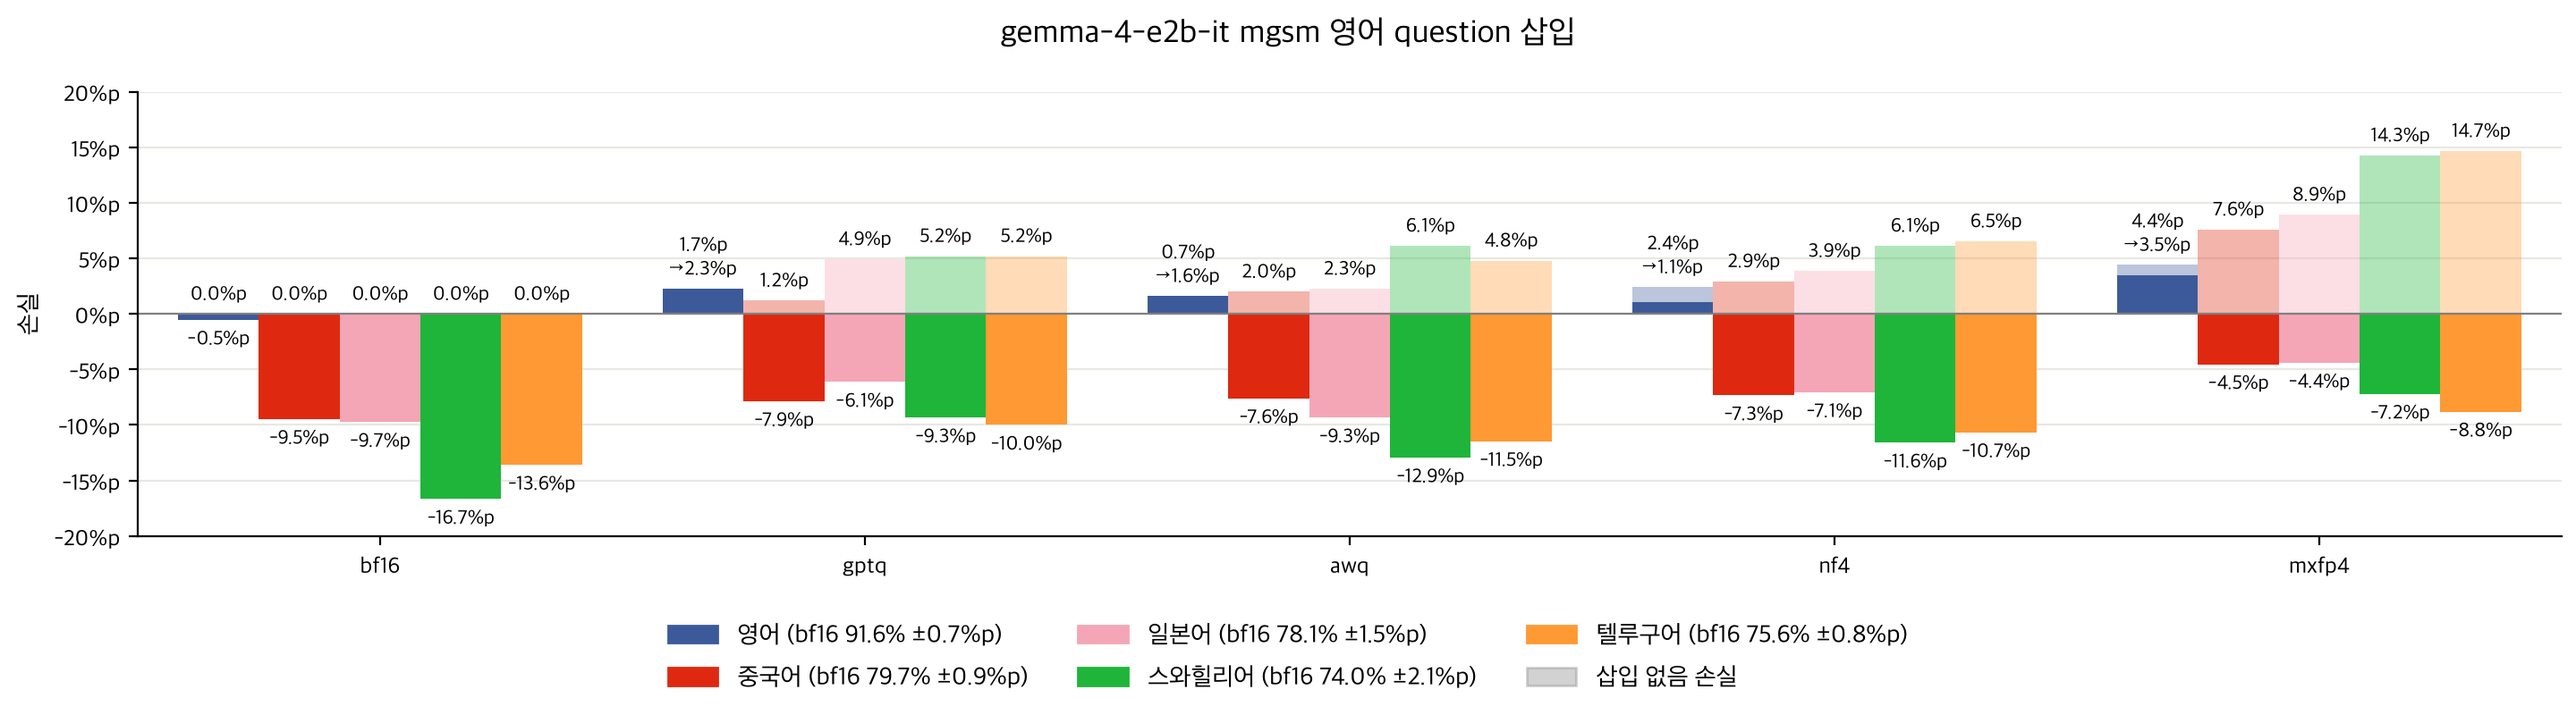
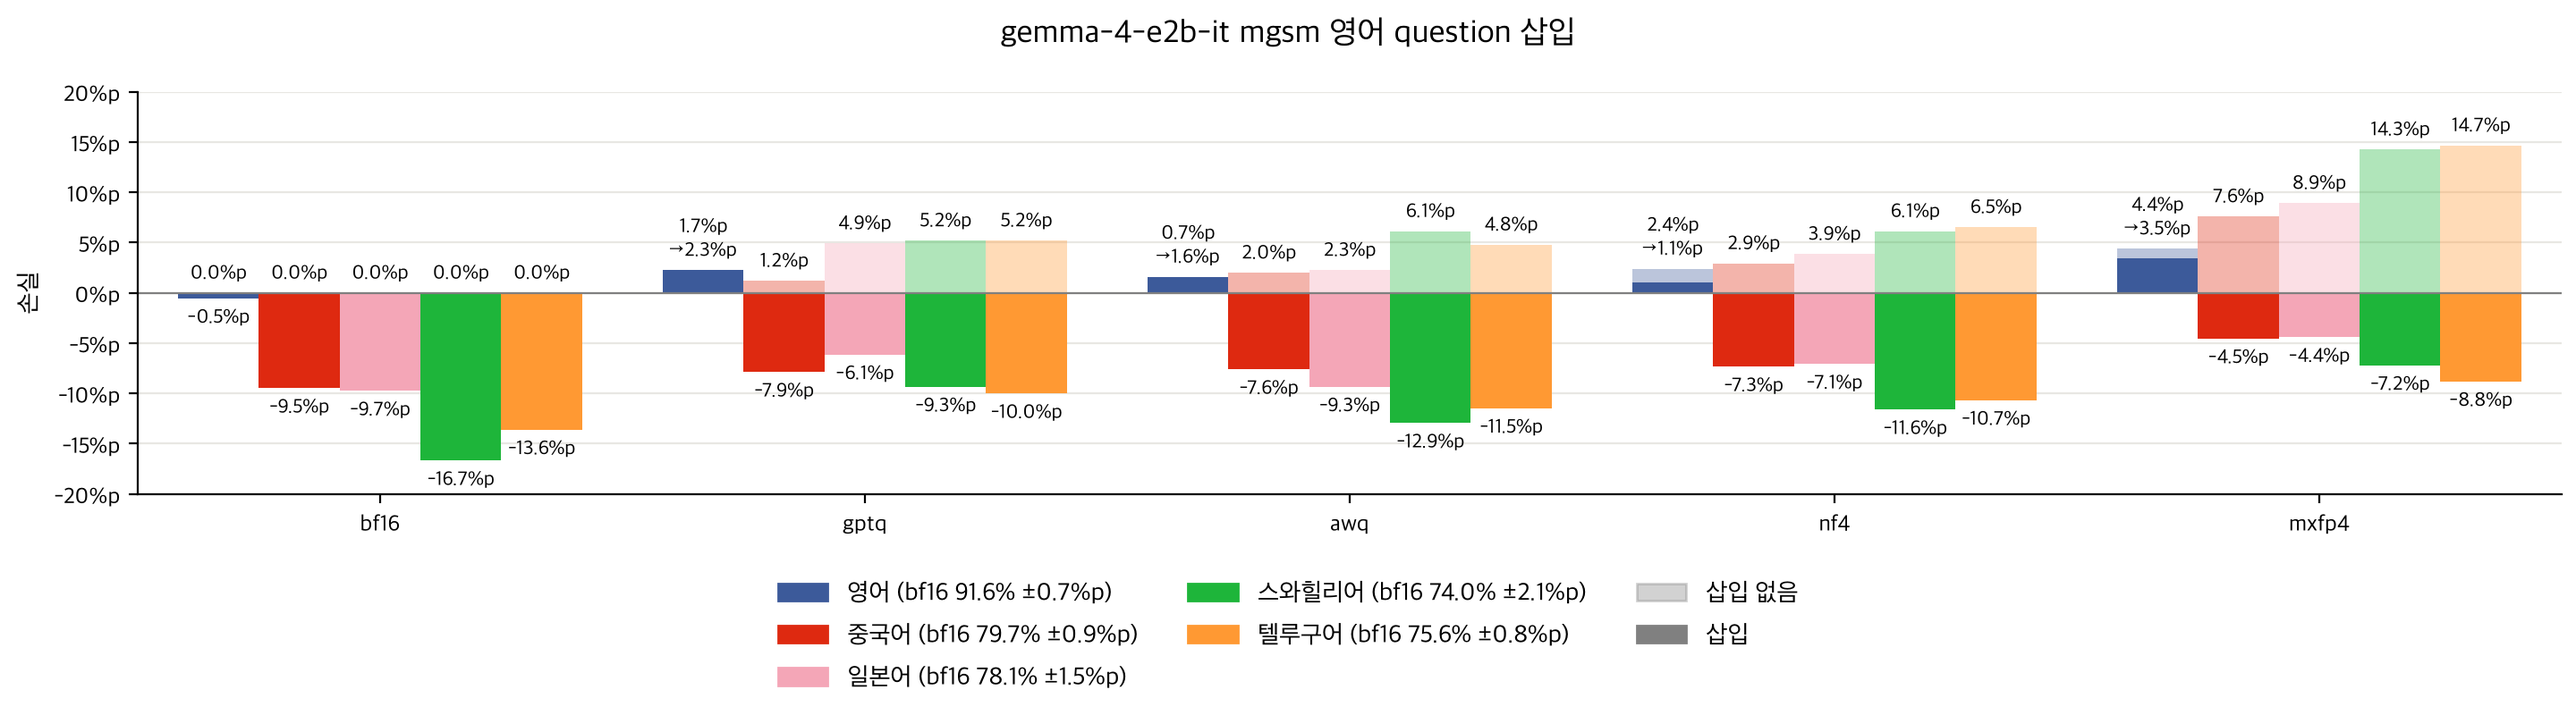
삽입 plot 범례 변경

diff --git a/plots/understanding_insert.py b/plots/understanding_insert.py
@@ -9,7 +9,7 @@ from simple_parsing import parse
 from utils.dataset import LANGUAGES
 from utils.hub import load_results
 from utils.paths import make_hub_path
-from utils.plot import INSERT_LOSS_YMAX, INSERT_LOSS_YMIN, INSERT_LOSS_YTICK, QUANTIZATION_METHODS, add_language_legend, get_figsize, get_no_insert_handle, get_subset_accuracy, get_title, plot_insert_bars, save_figure
+from utils.plot import INSERT_LOSS_YMAX, INSERT_LOSS_YMIN, INSERT_LOSS_YTICK, QUANTIZATION_METHODS, add_language_legend, get_figsize, get_insert_handles, get_subset_accuracy, get_title, plot_insert_bars, save_figure
 from utils.understanding import get_understanding_problem_indices
 
 # 회복 비율을 표시할 양자화 방법, 나머지는 손실이 작아 비율이 의미 없음
@@ -51,7 +51,7 @@ def main() -> None:
 
     fig.suptitle(get_title(config.model_name, "mgsm", "understanding 삽입"))
     num_problems = {language: round(mean(len(indices) for indices in problem_indices[language])) for language in LANGUAGES}
-    add_language_legend(fig, bf16_results, num_problems, (get_no_insert_handle(),))
+    add_language_legend(fig, bf16_results, num_problems, get_insert_handles())
     save_figure(fig, config.model_name, "mgsm_understanding_insert")
 
 

diff --git a/plots/reasoning_prefix_insert.py b/plots/reasoning_prefix_insert.py
@@ -9,7 +9,7 @@ from simple_parsing import parse
 from utils.dataset import LANGUAGES
 from utils.hub import load_results
 from utils.paths import make_hub_path
-from utils.plot import INSERT_LOSS_YMAX, INSERT_LOSS_YMIN, INSERT_LOSS_YTICK, QUANTIZATION_METHODS, add_language_legend, get_figsize, get_no_insert_handle, get_subset_accuracy, get_title, plot_insert_bars, save_figure
+from utils.plot import INSERT_LOSS_YMAX, INSERT_LOSS_YMIN, INSERT_LOSS_YTICK, QUANTIZATION_METHODS, add_language_legend, get_figsize, get_insert_handles, get_subset_accuracy, get_title, plot_insert_bars, save_figure
 from utils.understanding import LENGTH_RATIOS
 
 # 예시) ["understanding 0.5배", ..., "understanding 2배"]
@@ -50,7 +50,7 @@ def main() -> None:
 
     fig.suptitle(get_title(config.model_name, "mgsm", "reasoning 앞부분 길이별 삽입"))
     num_problems = {language: round(mean(len(indices) for indices in problem_indices[language])) for language in LANGUAGES}
-    add_language_legend(fig, bf16_results, num_problems, (get_no_insert_handle(),))
+    add_language_legend(fig, bf16_results, num_problems, get_insert_handles())
     save_figure(fig, config.model_name, "mgsm_reasoning_prefix_insert")
 
 

diff --git a/plots/en_understanding_insert.py b/plots/en_understanding_insert.py
@@ -9,7 +9,7 @@ from simple_parsing import parse
 from utils.dataset import LANGUAGES
 from utils.hub import load_results
 from utils.paths import make_hub_path
-from utils.plot import EN_INSERT_LOSS_YMIN, INSERT_LOSS_YMAX, INSERT_LOSS_YTICK, METHODS, add_language_legend, get_figsize, get_no_insert_handle, get_subset_accuracy, get_title, plot_insert_bars, save_figure
+from utils.plot import EN_INSERT_LOSS_YMIN, INSERT_LOSS_YMAX, INSERT_LOSS_YTICK, METHODS, add_language_legend, get_figsize, get_insert_handles, get_subset_accuracy, get_title, plot_insert_bars, save_figure
 from utils.understanding import get_understanding_problem_indices
 
 
@@ -48,7 +48,7 @@ def main() -> None:
 
     fig.suptitle(get_title(config.model_name, "mgsm", "영어 understanding 삽입"))
     num_problems = {language: round(mean(len(indices) for indices in problem_indices[language])) for language in LANGUAGES}
-    add_language_legend(fig, bf16_results, num_problems, (get_no_insert_handle(),))
+    add_language_legend(fig, bf16_results, num_problems, get_insert_handles())
     save_figure(fig, config.model_name, "mgsm_en_understanding_insert")
 
 

diff --git a/plots/en_question_insert.py b/plots/en_question_insert.py
@@ -8,7 +8,7 @@ from simple_parsing import parse
 from utils.dataset import LANGUAGES
 from utils.hub import load_results
 from utils.paths import make_hub_path
-from utils.plot import EN_INSERT_LOSS_YMIN, INSERT_LOSS_YMAX, INSERT_LOSS_YTICK, METHODS, add_language_legend, get_accuracy, get_figsize, get_mean_values, get_no_insert_handle, get_title, plot_insert_bars, save_figure
+from utils.plot import EN_INSERT_LOSS_YMIN, INSERT_LOSS_YMAX, INSERT_LOSS_YTICK, METHODS, add_language_legend, get_accuracy, get_figsize, get_mean_values, get_insert_handles, get_title, plot_insert_bars, save_figure
 
 # 삽입할 영어 question마다 hub 결과 경로, 섹션 이름, 그림 이름, 결과가 있는 방법
 EN_QUESTIONS = {
@@ -53,7 +53,7 @@ def main() -> None:
     ax.yaxis.set_major_locator(MultipleLocator(INSERT_LOSS_YTICK))
 
     fig.suptitle(get_title(config.model_name, "mgsm", section_name))
-    add_language_legend(fig, bf16_results, extra_handles=(get_no_insert_handle(),))
+    add_language_legend(fig, bf16_results, extra_handles=get_insert_handles())
     save_figure(fig, config.model_name, file_name)
 
 

diff --git a/utils/plot.py b/utils/plot.py
@@ -185,9 +185,12 @@ def plot_insert_bars(
     ax.yaxis.set_major_formatter(PercentFormatter(1, decimals=0, symbol="%p"))
 
 
-def get_no_insert_handle() -> Patch:
-    # plot_insert_bars의 삽입 없음 막대와 같은 모양의 범례
-    return Patch(color="#808080", alpha=NO_INSERT_ALPHA, label="삽입 없음 손실")
+def get_insert_handles(
+    no_insert_label: str = "삽입 없음",
+    insert_label: str = "삽입",
+) -> tuple[Patch, Patch]:
+    # plot_insert_bars의 연한 막대와 진한 막대를 설명하는 범례, 삽입이 아닌 비교는 label을 바꿈
+    return Patch(color="#808080", alpha=NO_INSERT_ALPHA, label=no_insert_label), Patch(color="#808080", label=insert_label)
 
 
 def add_language_legend(
